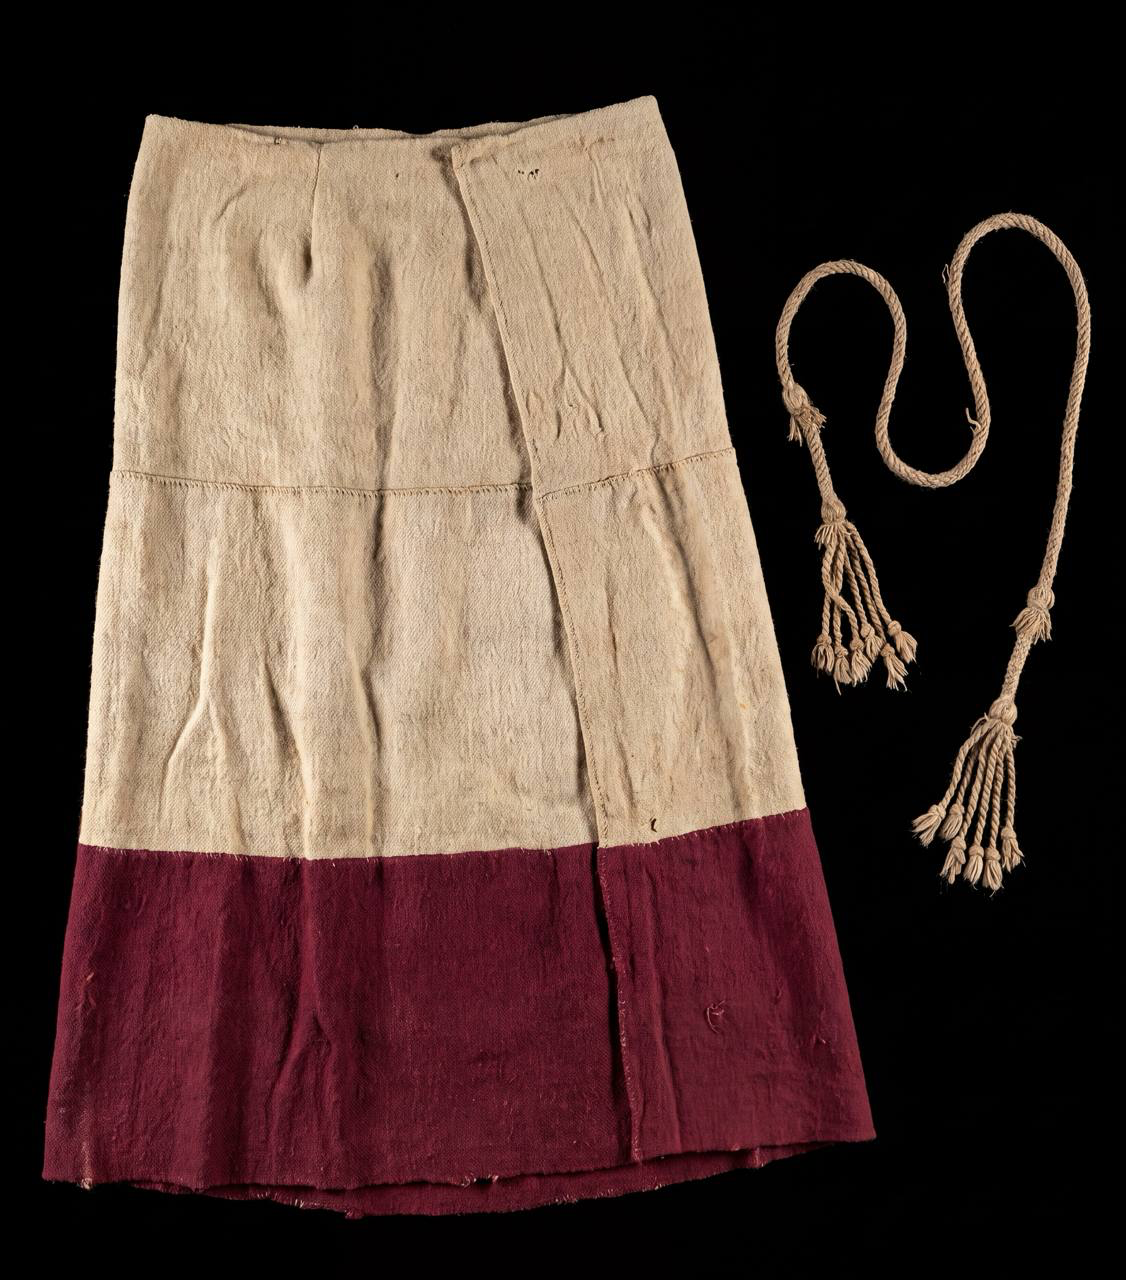
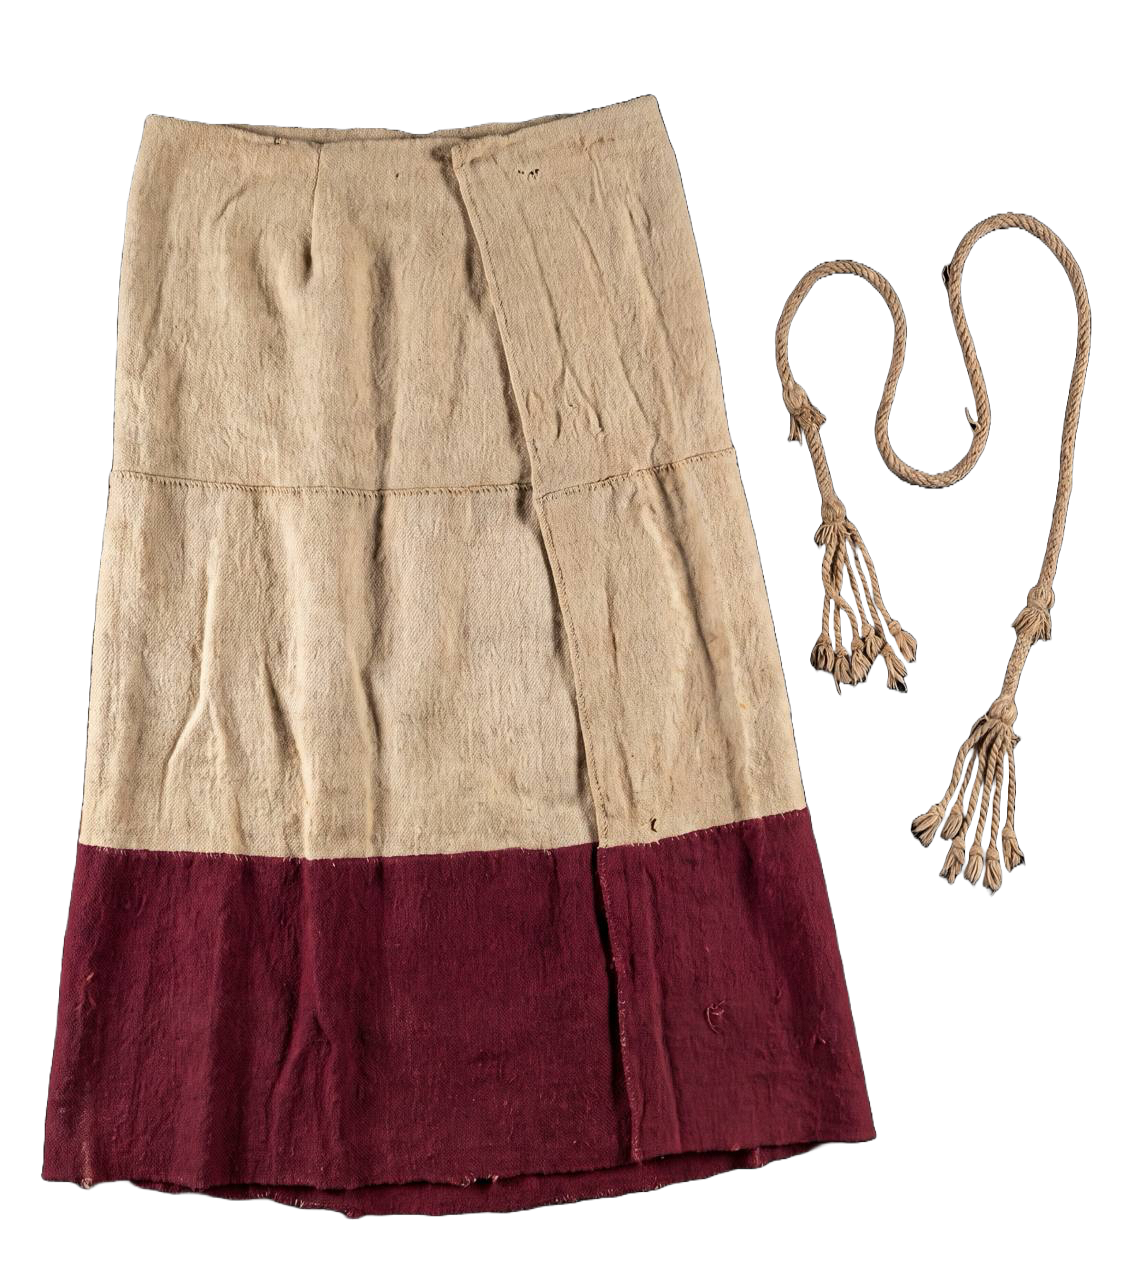
CLothesUpd

diff --git a/js/data/content.js b/js/data/content.js
@@ -124,9 +124,9 @@ export const CONTENT = {
       layout: "human-split",
       model: "assets/models/human.glb",        // ТЗ п.12
       icon: "🗿",
-      hotspot: { x: 46, y: 66 },
+      hotspot: { x: 44, y: 54.5 },
       hotspotImage: "assets/images/hotspots/human-cutout.png", // вырезка поверх карты
-      hotspotWidth: 130,                                        // ширина на экране в пикселях, подберите на глаз
+      hotspotWidth: 410,                                        // ширина на экране в пикселях, подберите на глаз
 
       // Верхний текст левой колонки — про ТЕКУЩИЙ элемент одежды
       // (тот, что сейчас показан в карусели ниже). У каждого элемента
